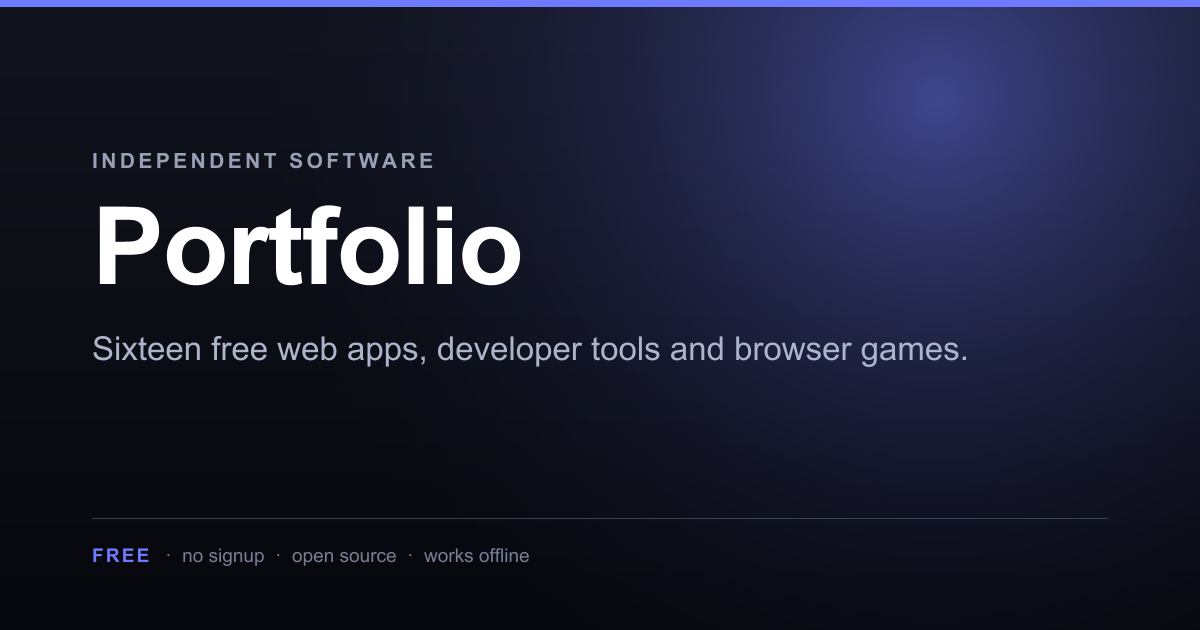
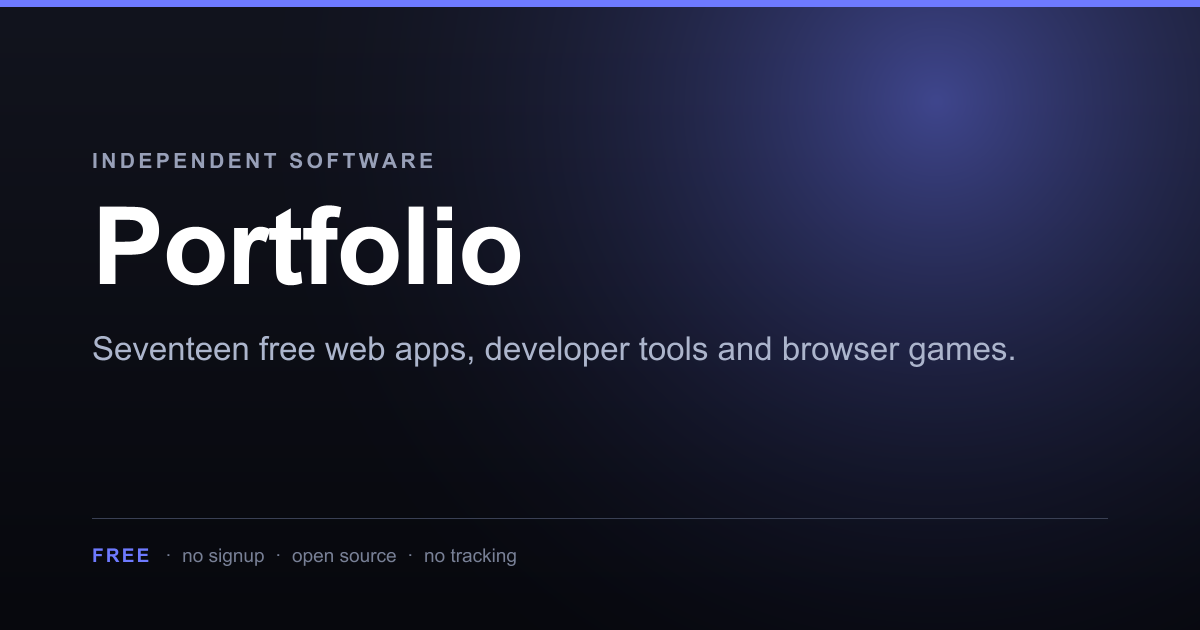
Add social preview cards and complete page metadata
Every product now carries og:image, twitter:card, canonical, theme-color and
a favicon, and none of them block pinch-zoom any more. The preview cards are
generated from real font outlines rather than hand-made per product.

Backends additionally learn to serve og.png as image/png - a preview image
returned as text/plain is rejected by every crawler.

Changed region(s): [[0.0925, 0.5429, 0.8633, 0.573], [0.3392, 0.8746, 0.4317, 0.9048]]

diff --git a/index.html b/index.html
@@ -4,13 +4,13 @@
 <meta charset="UTF-8" />
 <meta name="viewport" content="width=device-width, initial-scale=1.0" />
 <title>Product Portfolio — apps, tools &amp; games</title>
-<meta name="description" content="Sixteen free web apps, developer tools and browser games — a contract reviewer, a plain-language explainer, an offline first-aid guide and more." />
+<meta name="description" content="Eighteen free web apps, developer tools and browser games — a contract reviewer, a plain-language explainer, an offline first-aid guide and more." />
 <meta name="color-scheme" content="light dark" />
 <meta name="theme-color" content="#ffffff" media="(prefers-color-scheme: light)" />
 <meta name="theme-color" content="#0b0c0f" media="(prefers-color-scheme: dark)" />
 <link rel="canonical" href="https://rahulatrkm.github.io/portfolio/" />
 <meta property="og:title" content="Product Portfolio — apps, tools &amp; games" />
-<meta property="og:description" content="Sixteen free web apps, developer tools and games. All free, no signup, nothing stored." />
+<meta property="og:description" content="Eighteen free web apps, developer tools and games. All free, no signup, nothing stored." />
 <meta property="og:type" content="website" />
 <meta property="og:url" content="https://rahulatrkm.github.io/portfolio/" />
 <meta property="og:image" content="https://rahulatrkm.github.io/portfolio/og.png" />
@@ -151,7 +151,7 @@
   "@type": "SoftwareApplication",
   "name": "Product Portfolio",
   "url": "https://rahulatrkm.github.io/portfolio/",
-  "description": "Sixteen free web apps, developer tools and browser games \u2014 a contract reviewer, a plain-language explainer, an offline first-aid guide and more.",
+  "description": "Eighteen free web apps, developer tools and browser games \u2014 a contract reviewer, a plain-language explainer, an offline first-aid guide and more.",
   "applicationCategory": "WebApplication",
   "operatingSystem": "Any modern web browser",
   "browserRequirements": "Requires JavaScript",
@@ -174,7 +174,7 @@
 
 <div class="wrap">
   <header>
-    <p class="eyebrow"><span class="dot"></span>Independent software · 16 products · everything free</p>
+    <p class="eyebrow"><span class="dot"></span>Independent software · 18 products · everything free</p>
     <h1>Small tools, built properly.</h1>
     <p class="lede">A collection of free web apps, developer tools and browser games. No accounts, no tracking, nothing stored — open one and it just works.</p>
     <div class="meta">
@@ -230,6 +230,8 @@ const ICON = {
   bottle:'<path d="M9 3h6v3l2 5v10a2 2 0 01-2 2H9a2 2 0 01-2-2V11l2-5z"/><path d="M7.5 13h9"/>',
   tiles:'<rect x="3" y="3" width="8" height="8" rx="1.5"/><rect x="13" y="3" width="8" height="8" rx="1.5"/><rect x="3" y="13" width="8" height="8" rx="1.5"/><path d="M13.5 17h7M17 13.5v7"/>',
   prism:'<path d="M12 4L4 18h16z"/><path d="M1.5 13h3M19.5 13h3"/>',
+  sprout:'<path d="M12 21v-8"/><path d="M12 13c0-3.3-2.7-6-6-6 0 3.3 2.7 6 6 6z"/><path d="M12 13c0-3.9 3.1-7 7-7 0 3.9-3.1 7-7 7z"/><path d="M6 21h12"/>',
+  graph:'<circle cx="5" cy="6" r="2.5"/><circle cx="19" cy="12" r="2.5"/><circle cx="5" cy="18" r="2.5"/><path d="M7.5 6.8l9 4.2M7.5 17.2l9-4.2"/>',
 };
 
 const PROJECTS = [
@@ -281,6 +283,12 @@ const PROJECTS = [
   { name:"Prism", icon:"prism", cat:"game", tag:"Puzzle",
     desc:"A calm light puzzle. Turn mirrors to bend a beam through 240 hand-checked levels and ignite every crystal. No timer, no pressure.",
     url:"https://rahulatrkm.github.io/prism/", src:"https://github.com/rahulatrkm/prism" },
+  { name:"Junction", icon:"graph", cat:"tool", tag:"Developer", featured:true,
+    desc:"Build an AI pipeline as a graph instead of a thousand lines of glue. Write YAML or drag the boxes \u2014 they are the same thing. Run it on your own key, then export plain Python that needs nothing from me.",
+    url:"https://rahulatrkm.github.io/junction/", src:"https://github.com/rahulatrkm/junction" },
+  { name:"Acre", icon:"sprout", cat:"game", tag:"Tycoon",
+    desc:"A farm tycoon that keeps growing while you are away. Plant and harvest, raise animals, run a mill and a bakery, and work through 24 levels. No downloads, no timers to buy past.",
+    url:"https://rahulatrkm.github.io/acre/", src:"https://github.com/rahulatrkm/acre" },
 ];
 
 const grid = document.getElementById("grid");

diff --git a/test_likes.py b/test_likes.py
@@ -131,7 +131,7 @@ from pathlib import Path  # noqa: E402
 
 _html = (Path(__file__).resolve().parent / "index.html").read_text(encoding="utf-8")
 _slugs = set(re.findall(r'src:"https://github\.com/rahulatrkm/([a-z]+)"', _html))
-ok("the page lists products", len(_slugs) == 16, f"{len(_slugs)} found")
+ok("the page lists products", len(_slugs) == 18, f"{len(_slugs)} found")
 ok("every slug the page posts is accepted by the server",
    not (_slugs - A.PRODUCTS), f"unknown: {sorted(_slugs - A.PRODUCTS)}")
 ok("the server allows nothing the page never sends",

diff --git a/app.py b/app.py
@@ -47,7 +47,7 @@ SEED_PATH = HERE / "seed.json"
 PRODUCTS = frozenset({
     "rehearsal", "resumefit", "lifeline", "clauseclear", "plainly", "ogcheck",
     "invoicepdf", "metascrub", "recur", "milkbook", "voxelia", "bloom",
-    "tiger", "faint", "fuse", "prism",
+    "tiger", "faint", "fuse", "prism", "junction", "acre",
 })
 # the portfolio itself has no like button, but its traffic is the thing a post drives
 COUNTABLE = PRODUCTS | frozenset({"portfolio"})
